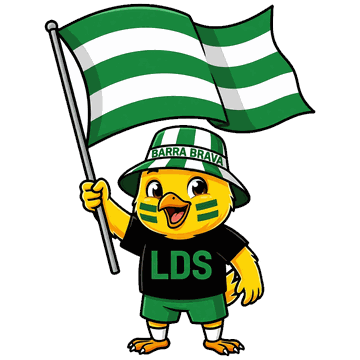
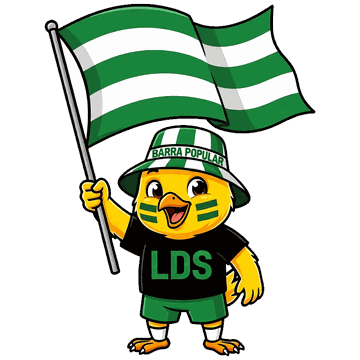
Say "barra popular" and add a barrismo social tagline to LDS stories
The owner asked that the Los Del Sur raffle images never say "barra brava".
The pollitos' bucket hats now read "BARRA POPULAR" (a second Qwen Image
Edit pass changed only that text and removed stray letters from the
umbrella pollito's face). Three templates (humo, escudo, sombrillas) now
show "LÍDERES DEL BARRISMO SOCIAL" under "LOS DEL SUR"; the other three
keep "LA BARRA Y SUS COMBOS".

The bake script's LDS asset directory is now optional, so the pollitos can
be re-baked without the crest and banner sources.

diff --git a/lib/rifas/story-templates/designs-lds.tsx b/lib/rifas/story-templates/designs-lds.tsx
@@ -19,6 +19,9 @@ const PANEL = "rgba(4, 16, 9, 0.84)";
 const BOARD = "rgba(4, 16, 9, 0.6)";
 /** Sombra para el texto que va directo sobre la foto. */
 const LIFT = "0 2px 4px rgba(0,0,0,0.9), 0 0 18px rgba(0,0,0,0.75)";
+/** Lema bajo «LOS DEL SUR» (2026-11-07, pedido del dueño: «líderes del barrismo social» en algunas). */
+const COMBOS = "LA BARRA Y SUS COMBOS";
+const LIDERES = "LÍDERES DEL BARRISMO SOCIAL";
 
 /**
  * Oscurece arriba (encabezado y título) y abajo (fecha y dominio) y deja la
@@ -37,28 +40,28 @@ function Photo({ src, strength }: { src: string | null; strength?: number }) {
   </div>;
 }
 
-function Header({ escudo }: { escudo: string }) {
+function Header({ escudo, tagline }: { escudo: string; tagline: string }) {
   return <div style={{ display: "flex", alignItems: "center", gap: 22, position: "absolute", left: 56, top: 40 }}>
     {/* eslint-disable-next-line @next/next/no-img-element -- PNG embedded in next/og */}
     <img src={escudo} width={132} height={132} alt="" />
     <div style={{ display: "flex", flexDirection: "column" }}>
       <span style={{ ...display, fontSize: 76, color: WHITE, textShadow: LIFT }}>LOS DEL SUR</span>
-      <span style={{ fontSize: 24, letterSpacing: 5, color: GREEN_LIGHT, textShadow: LIFT }}>LA BARRA Y SUS COMBOS</span>
+      <span style={{ fontSize: 24, letterSpacing: tagline.length > 22 ? 3 : 5, color: GREEN_LIGHT, textShadow: LIFT }}>{tagline}</span>
     </div>
   </div>;
 }
 
 /** Base común: foto de la barra, encabezado, pollito grande, casillas blancas con borde verde, La Polla al pie. */
-function lds(props: StoryProps, theme: Partial<Treatment> & { strength?: number }) {
+function lds(props: StoryProps, theme: Partial<Treatment> & { strength?: number; tagline?: string }) {
   const art = props.partner;
-  const { strength, titleStyle, ...rest } = theme;
+  const { strength, titleStyle, tagline = COMBOS, ...rest } = theme;
   return StoryFrame(props, {
     background: NIGHT, panel: PANEL, accent: GREEN_LIGHT, cell: WHITE, cellBorder: GREEN, radius: 10,
     title: "RIFA SUREÑA", titleSize: 100, titleTop: 190, nameWidth: 640,
     pollitoSize: 320, pollitoTop: -170, pollitoRight: -50, footerLogo: true, nameShadow: LIFT,
     titleStyle: { textShadow: LIFT, ...titleStyle },
     boardStyle: { border: `3px solid ${GREEN}`, background: BOARD },
-    header: art ? <Header escudo={art.escudo} /> : undefined,
+    header: art ? <Header escudo={art.escudo} tagline={tagline} /> : undefined,
     backdrop: <Photo src={art?.background ?? null} strength={strength} />,
     ...rest,
   });
@@ -73,7 +76,7 @@ export function combos(props: StoryProps) {
 }
 
 export function humo(props: StoryProps) {
-  return lds(props, {});
+  return lds(props, { tagline: LIDERES });
 }
 
 export function trapo(props: StoryProps) {
@@ -87,10 +90,10 @@ export function trapo(props: StoryProps) {
 }
 
 export function escudo(props: StoryProps) {
-  return lds(props, { title: "SIEMPRE PRESENTES", titleSize: 84 });
+  return lds(props, { title: "SIEMPRE PRESENTES", titleSize: 84, tagline: LIDERES });
 }
 
 export function sombrillas(props: StoryProps) {
   // Foto de día con cielo blanco: más sombra para que el texto blanco se lea igual.
-  return lds(props, { strength: 0.16 });
+  return lds(props, { strength: 0.16, tagline: LIDERES });
 }

diff --git a/tests/rifas-lds-story.test.ts b/tests/rifas-lds-story.test.ts
@@ -61,6 +61,10 @@ describe("plantillas de Los Del Sur", () => {
     const html = renderToStaticMarkup(template.render({ ...p, r: { ...r, buyer_phone: "PRIVADO" } as StoryData }));
     expect(html).not.toContain("PRIVADO");
     expect(html).toContain("LOS DEL SUR");
+    // Lema: «barrismo social» en tres, el de los combos en las otras; nunca «barra brava».
+    const lideres = ["lds-humo", "lds-escudo", "lds-sombrillas"].includes(template.key);
+    expect(html).toContain(lideres ? "LÍDERES DEL BARRISMO SOCIAL" : "LA BARRA Y SUS COMBOS");
+    expect(html.toLowerCase()).not.toContain("barra brava");
     // La Polla solo en el pie: logo pequeño + dominio, sin el encabezado «LA POLLA».
     expect(html).not.toContain(">LA POLLA<");
     expect(html).toContain(">lapollacolombiana.com<");

diff --git a/scripts/bake-rifa-lds-assets.py b/scripts/bake-rifa-lds-assets.py
@@ -1,5 +1,5 @@
 #!/usr/bin/env python3
-# scripts/bake-rifa-lds-assets.py <pollitos_dir> <lds_public_dir>
+# scripts/bake-rifa-lds-assets.py <pollitos_dir> [<lds_public_dir>]
 #
 # Arte de Los Del Sur para la rifa solidaria La Iguaná (lib/rifas/partner.ts):
 # - assets/rifas-story/lds/: pollitos barristas (PNG con alfa), escudo y trapo
@@ -11,8 +11,8 @@
 # <pollitos_dir>: originales de Qwen Image Edit 2511 (DGX, ComfyUI), editados a
 # partir de public/pollitos/pollito_verde_base.webp sobre fondo blanco. Se
 # guardan fuera del repo (Downloads/agent-work/lds-pollitos-20261107/).
-# <lds_public_dir>: los-del-sur-app/apps/pwa-los-del-sur/public (escudo.png,
-# trapos/los-del-sur.webp).
+# <lds_public_dir> (opcional; sin él solo se hornean los pollitos):
+# los-del-sur-app/apps/pwa-los-del-sur/public (escudo.png, trapos/los-del-sur.webp).
 # Requiere Pillow con soporte WebP.
 import os
 import sys
@@ -21,13 +21,16 @@ from PIL import Image, ImageDraw, ImageFilter
 ROOT = os.path.dirname(os.path.dirname(os.path.abspath(__file__)))
 STORY = os.path.join(ROOT, "assets", "rifas-story", "lds")
 PUBLIC = os.path.join(ROOT, "public", "rifas", "lds")
-pollitos_dir, lds_dir = sys.argv[1], sys.argv[2]
+pollitos_dir = sys.argv[1]
+lds_dir = sys.argv[2] if len(sys.argv) > 2 else None
 os.makedirs(STORY, exist_ok=True)
 os.makedirs(PUBLIC, exist_ok=True)
 
-# Pollito final → original elegido (pava y sombrilla: segunda pasada que corrige «BARRA BRAVA»).
-POLLITOS = {"pava": "pavafix2", "bombo": "bombo", "bandera": "bandera",
-            "trompeta": "trompeta", "sombrilla": "sombrillafix1", "trapo": "trapo"}
+# Pollito final → original elegido. (2026-11-07, pedido del dueño) La pava dice
+# «BARRA POPULAR», nunca «barra brava»: una segunda edición de Qwen cambió solo
+# ese texto (sufijo -pop<semilla>) y le quitó a la sombrilla unas letras de la cara.
+POLLITOS = {"pava": "pavafix2-pop13", "bombo": "bombo-pop9", "bandera": "bandera-pop9",
+            "trompeta": "trompeta-pop9", "sombrilla": "sombrillafix1-pop13", "trapo": "trapo"}
 
 
 def cut_white(path):
@@ -67,13 +70,14 @@ def save_png(im, name, size):
 for key, src in POLLITOS.items():
     save_png(cut_white(os.path.join(pollitos_dir, f"{src}.png")), f"pollito-{key}.png", 360)
 
-escudo = Image.open(os.path.join(lds_dir, "escudo.png")).convert("RGBA")
-escudo.resize((300, 300), Image.LANCZOS).save(os.path.join(STORY, "escudo.png"), optimize=True)
-for size in (128, 256):
-    escudo.resize((size, size), Image.LANCZOS).save(os.path.join(PUBLIC, f"escudo-{size}.webp"), quality=86)
+if lds_dir:
+    escudo = Image.open(os.path.join(lds_dir, "escudo.png")).convert("RGBA")
+    escudo.resize((300, 300), Image.LANCZOS).save(os.path.join(STORY, "escudo.png"), optimize=True)
+    for size in (128, 256):
+        escudo.resize((size, size), Image.LANCZOS).save(os.path.join(PUBLIC, f"escudo-{size}.webp"), quality=86)
 
-trapo = Image.open(os.path.join(lds_dir, "trapos", "los-del-sur.webp")).convert("RGBA")
-trapo = trapo.resize((1240, round(1240 * trapo.height / trapo.width)), Image.LANCZOS)
-trapo.quantize(colors=128, method=Image.Quantize.FASTOCTREE, dither=Image.Dither.NONE).save(os.path.join(STORY, "trapo.png"), optimize=True)
+    trapo = Image.open(os.path.join(lds_dir, "trapos", "los-del-sur.webp")).convert("RGBA")
+    trapo = trapo.resize((1240, round(1240 * trapo.height / trapo.width)), Image.LANCZOS)
+    trapo.quantize(colors=128, method=Image.Quantize.FASTOCTREE, dither=Image.Dither.NONE).save(os.path.join(STORY, "trapo.png"), optimize=True)
 
 print("ok", sorted(os.listdir(STORY)), sorted(os.listdir(PUBLIC)))

diff --git a/docs/rifas.md b/docs/rifas.md
@@ -247,9 +247,13 @@ recibe el slug de SQL); el test exige que ambos sean la misma rifa.
   las ven. Encabezado con escudo, pollito barrista grande y La Polla solo como
   logo pequeño junto al dominio. Arte en `assets/rifas-story/lds/`
   (`scripts/bake-rifa-lds-assets.py`): escudo, trapo de la app de LDS y
-  seis pollitos barristas (pava «BARRA BRAVA», bombo, bandera, trompeta,
-  sombrilla, trapo) editados con Qwen Image Edit 2511 en el DGX a partir de
-  `pollito_verde_base`. Originales en `Downloads/agent-work/lds-pollitos-20261107/`.
+  seis pollitos barristas (pava, bombo, bandera, trompeta, sombrilla, trapo)
+  editados con Qwen Image Edit 2511 en el DGX a partir de `pollito_verde_base`.
+  Originales en `Downloads/agent-work/lds-pollitos-20261107/`.
+- Textos (7-nov-2026, pedido del dueño): la pava dice «BARRA POPULAR»; nunca
+  «barra brava», ni en las imágenes ni en el texto. Bajo «LOS DEL SUR», humo,
+  escudo y sombrillas dicen «LÍDERES DEL BARRISMO SOCIAL»; las otras tres,
+  «LA BARRA Y SUS COMBOS».
   La web conserva los pollitos de siempre.
 - Fondos (7-nov-2026, pedido del dueño): las seis plantillas van sobre **fotos
   reales de la barra** del Instagram oficial @ldsoficial, nunca arte generado
